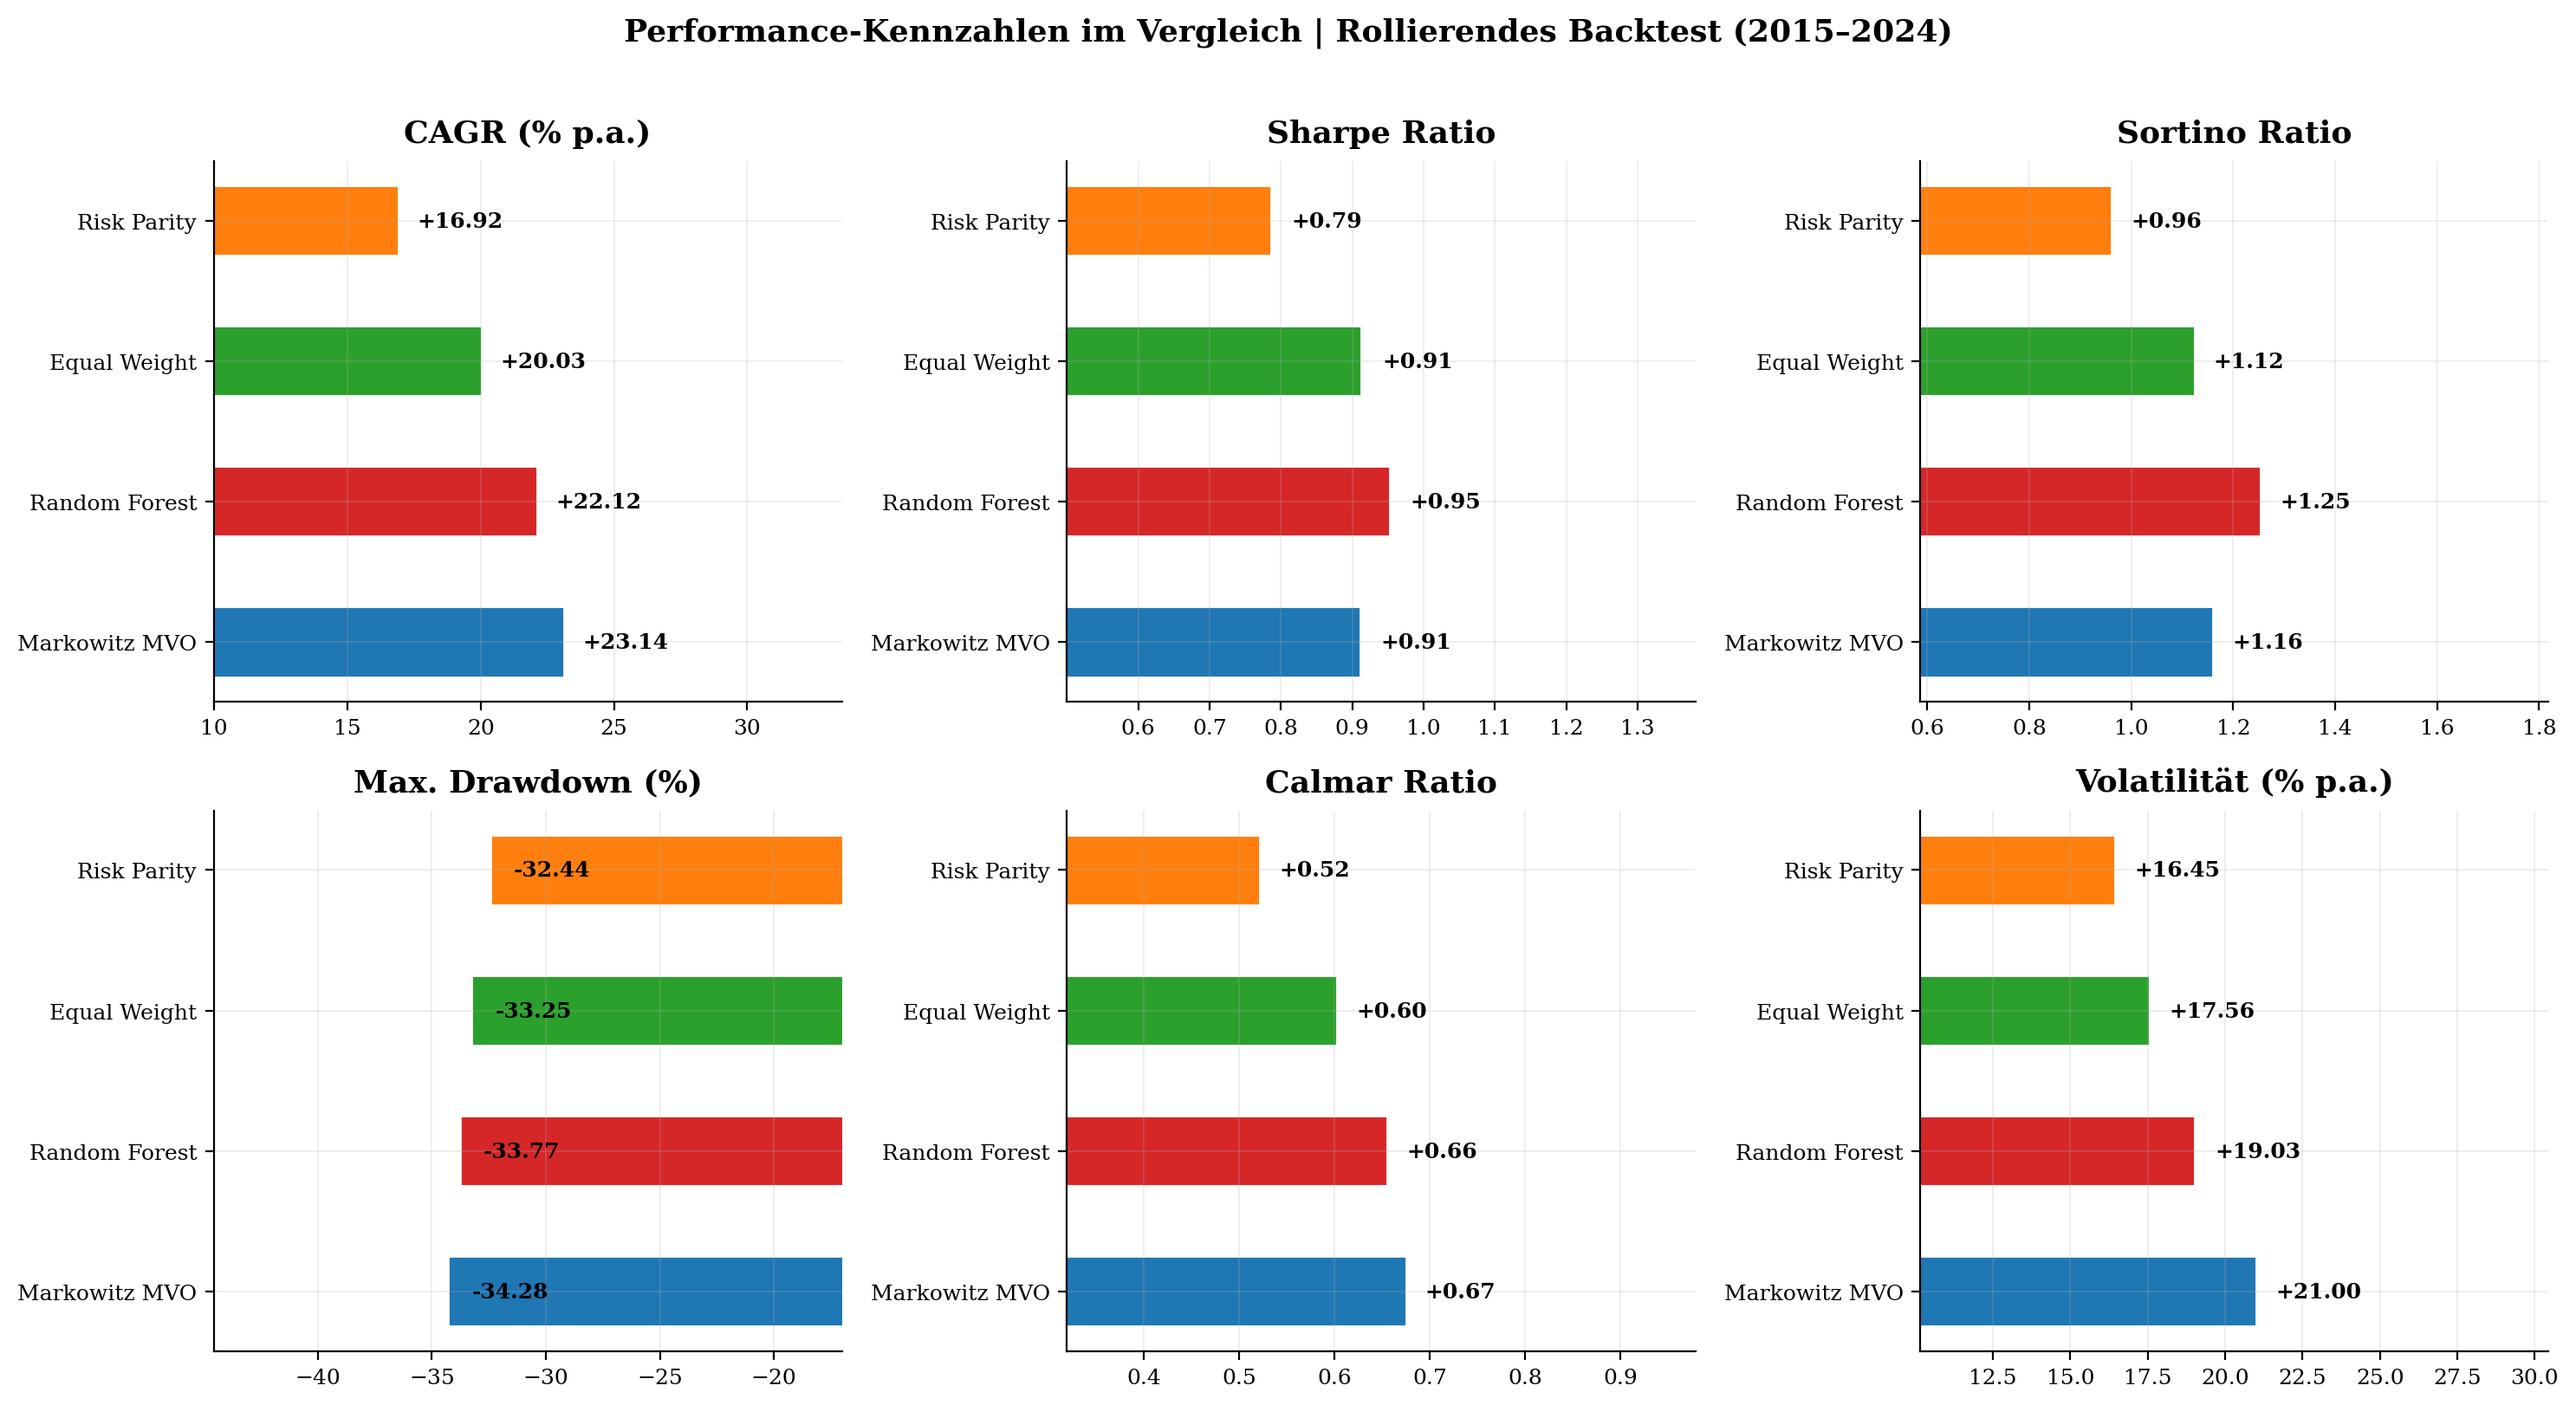
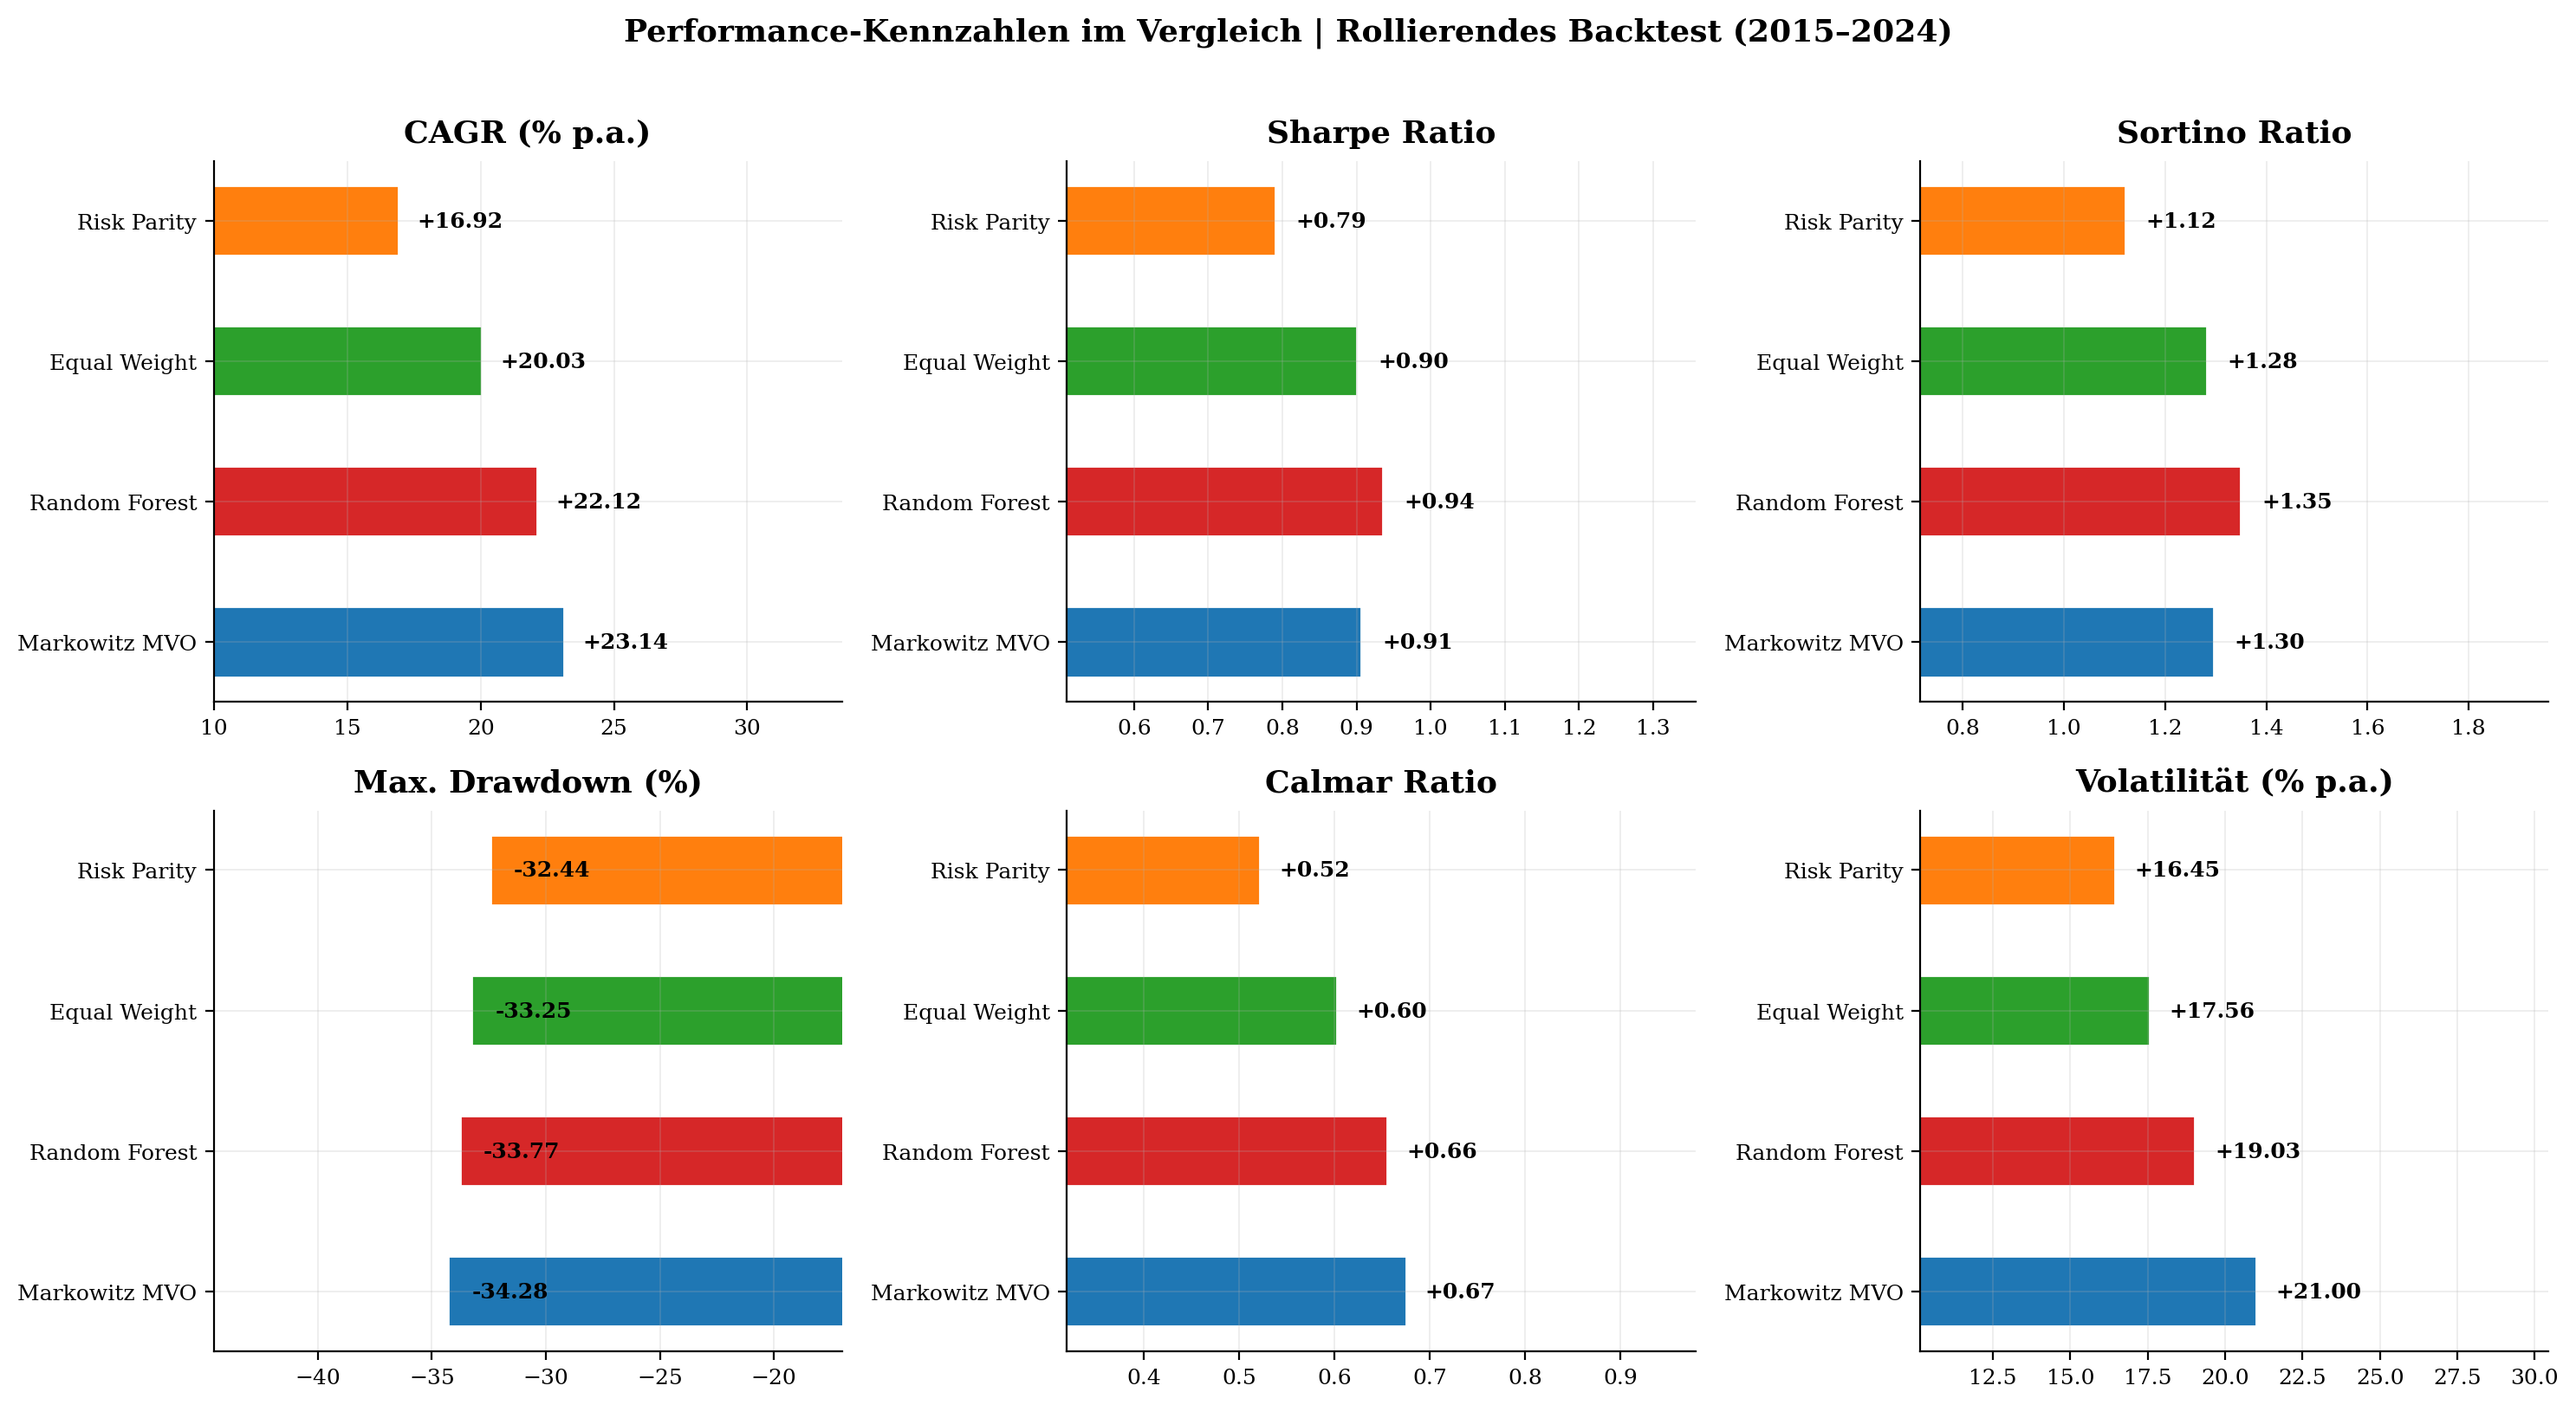
Sharpe und Sortino auf die Lehrbuchdefinition umgestellt
sharpe_ratio() rechnete bisher mit der geometrischen Jahresrendite (CAGR)
im Zähler und einem linear annualisierten Nenner. Diese Mischung entspricht
nicht Sharpe (1994) und lieferte für dieselbe Strategie einen anderen Wert
als der Signifikanztest in significance.py, der immer schon arithmetisch
rechnet. Jetzt: mittlere Überschussrendite / deren Standardabweichung, mit
√252 annualisiert. Tabelle und Test stimmen damit exakt überein.

sortino_ratio() nahm die Standardabweichung INNERHALB der Verlusttage. Das
misst die Streuung unter den Verlusten statt deren Größe. Jetzt die übliche
Downside-Abweichung √(1/T · Σ min(d,0)²) über alle Tage.

Beim Umstellen aufgefallen: Bei konstanten Renditen erzeugt r − rf/252
Gleitkommarauschen (~1e-20). Die Prüfung "sd > 0" war damit erfüllt und
lieferte einen Sharpe von −9,3e16 statt 0. Beide Nenner-Schutzabfragen
haben jetzt eine Toleranzschwelle von 1e-12.

Tests 34 → 37, darunter einer, der nachweist, dass die Downside-Abweichung
über alle Tage mittelt und nicht nur über die Verlusttage.

Ergebnisse: Sharpe RF 0,9357 · MVO 0,9063 · EW 0,9005 · RP 0,7901.
Die Signifikanzbefunde ändern sich nicht — einzig "Equal Weight > Risk
Parity" bleibt nach Holm signifikant (p = 0,0216). Kostenschwellen gegen
die 1/N-Benchmark: Markowitz ≈ 20 bp, Random Forest ≈ 31 bp.

diff --git a/portfolio/metrics.py b/portfolio/metrics.py
@@ -46,6 +46,10 @@ def timer(func):
     return wrapper
 
 
+# Numerische Toleranz für Nenner-Schutzabfragen (s. sharpe_ratio).
+_EPS = 1e-12
+
+
 def cagr(returns: pd.Series, freq: int = 252) -> float:
     """Compound Annual Growth Rate aus täglichen Renditen.
 
@@ -74,14 +78,32 @@ def annualized_vol(returns: pd.Series, freq: int = 252) -> float:
 
 def sharpe_ratio(returns: pd.Series, rf: float = RISK_FREE_RATE,
                  freq: int = 252) -> float:
-    """Sharpe Ratio = (Jahresrendite − sicherer Zins) / Jahresvolatilität.
+    """Sharpe Ratio nach Sharpe (1994): Mittelwert der Überschussrendite
+    geteilt durch deren Standardabweichung, annualisiert mit √freq.
 
-    Beispiel: 12 % Rendite bei 4 % sicherem Zins und 16 % Volatilität
-    → Sharpe = (0,12 − 0,04) / 0,16 = 0,5. Werte um 1 gelten als sehr gut.
+    Vorgehen:
+      1. Von jeder Tagesrendite den anteiligen risikofreien Zins abziehen
+         (rf/252) → "Überschussrendite" oder Differenzrendite d.
+      2. Mittelwert von d durch Standardabweichung von d teilen.
+      3. Mit √252 auf ein Jahr hochrechnen.
+
+    Beispiel: 12 % erwartete Überschussrendite bei 16 % Volatilität
+    → Sharpe = 0,12 / 0,16 = 0,75.
+
+    WARUM ARITHMETISCH UND NICHT ÜBER DIE CAGR? Frühere Fassungen dieser
+    Funktion setzten die geometrische Jahresrendite (CAGR) in den Zähler.
+    Das mischt ein geometrisches Maß mit einem linear annualisierten Nenner,
+    entspricht nicht Sharpes Definition — und lieferte für dieselbe Strategie
+    einen anderen Wert als der Signifikanztest in ``significance.py``, der
+    schon immer arithmetisch rechnet. Seit 15.08.2026 rechnen beide gleich.
     """
-    r = cagr(returns, freq)
-    v = annualized_vol(returns, freq)
-    return (r - rf) / v if v > 0 else 0.0    # Schutz: bei Vola 0 keine Division
+    d  = returns - rf / freq                 # Überschussrendite je Tag
+    sd = d.std(ddof=1)
+    # Schwelle statt "> 0": Die Subtraktion rf/freq erzeugt bei konstanten
+    # Renditen Gleitkommarauschen (Größenordnung 1e-20). Ohne Toleranz käme
+    # dabei ein sinnloser Wert von 1e+16 heraus statt der gewollten 0.
+    # 1e-12 liegt zehn Größenordnungen unter jeder echten Tagesschwankung.
+    return float(d.mean() / sd * np.sqrt(freq)) if sd > _EPS else 0.0
 
 
 def max_drawdown(returns: pd.Series) -> float:
@@ -118,10 +140,16 @@ def sortino_ratio(returns: pd.Series, rf: float = RISK_FREE_RATE,
     also wird die Volatilität nur aus den negativen Tagesrenditen berechnet
     ("Downside-Volatilität").
     """
-    r        = cagr(returns, freq)
-    down     = returns[returns < 0]              # nur die Verlusttage behalten
-    down_vol = down.std() * np.sqrt(freq)        # deren Schwankung, annualisiert
-    return (r - rf) / down_vol if down_vol > 0 else 0.0
+    d = returns - rf / freq                      # Überschussrendite je Tag
+    # Downside-Abweichung: quadratischer Mittelwert der NEGATIVEN Abweichungen,
+    # gemittelt über ALLE Tage (nicht nur über die Verlusttage). Tage über der
+    # Zielrendite gehen mit 0 ein — Schwankung nach oben soll nicht bestrafen.
+    #   DD = sqrt( 1/T · Σ min(d_t, 0)² )
+    # Frühere Fassungen nahmen stattdessen die Standardabweichung INNERHALB
+    # der Verlusttage. Das misst die Streuung unter den Verlusten statt deren
+    # Größe und entspricht nicht der üblichen Definition (Sortino/Van der Meer).
+    dd = np.sqrt((np.minimum(d, 0.0) ** 2).mean()) * np.sqrt(freq)
+    return float(d.mean() * freq / dd) if dd > _EPS else 0.0
 
 
 def portfolio_perf(weights: np.ndarray, mu: np.ndarray, cov: np.ndarray,

diff --git a/tests/test_metrics.py b/tests/test_metrics.py
@@ -62,14 +62,37 @@ def test_annualized_vol_constant_is_near_zero():
 
 
 def test_sharpe_zero_vol_guard():
-    # Vola exakt 0 -> Sharpe 0 (Division-durch-0-Schutz)
-    # Prüft gezielt den "if v > 0"-Schutz in sharpe_ratio().
-    assert sharpe_ratio(_series([0.0] * 252)) == 0.0
+    # Ueberschussrendite konstant -> Standardabweichung 0 -> Sharpe 0.
+    # Prueft gezielt den "if sd > 0"-Schutz in sharpe_ratio().
+    assert sharpe_ratio(_series([0.0] * 252), rf=0.0) == 0.0
+
+
+def test_sharpe_penalises_risk_free_shortfall():
+    # Eine Strategie, die konstant 0 % liefert, waehrend der sichere Zins 4 %
+    # betraegt, hat eine konstant NEGATIVE Ueberschussrendite. Die Streuung
+    # ist null, der Schutz greift also weiterhin.
+    assert sharpe_ratio(_series([0.0] * 252), rf=0.04) == 0.0
 
 
 def test_sortino_no_downside_guard():
-    # keine negativen Renditen -> Downside-Vola 0/NaN -> Sortino 0 (Schutz)
-    assert sortino_ratio(_series([0.0] * 252)) == 0.0
+    # Keine Abweichung unter die Zielrendite -> Downside-Abweichung 0 -> 0.
+    assert sortino_ratio(_series([0.0] * 252), rf=0.0) == 0.0
+
+
+def test_sortino_counts_shortfall_against_target():
+    # Liegt die Rendite dauerhaft UNTER dem sicheren Zins, ist das sehr wohl
+    # Downside-Risiko: Sortino muss negativ werden, nicht null.
+    assert sortino_ratio(_series([0.0] * 252), rf=0.04) < 0
+
+
+def test_sortino_uses_all_days_not_only_losers():
+    # Downside-Abweichung mittelt ueber ALLE Tage. Haengt man an eine Reihe
+    # mit wenigen Verlusten viele Gewinntage an, sinkt die Downside-Abweichung
+    # und der Sortino-Quotient steigt. Die alte Fassung (Streuung INNERHALB
+    # der Verlusttage) reagierte darauf nicht.
+    wenig = _series([-0.01] * 5 + [0.01] * 5)
+    viel  = _series([-0.01] * 5 + [0.01] * 95)
+    assert sortino_ratio(viel, rf=0.0) > sortino_ratio(wenig, rf=0.0)
 
 
 def test_portfolio_perf_matches_formula():

diff --git a/portfolio/backtest.py b/portfolio/backtest.py
@@ -179,10 +179,11 @@ def run_backtest(asset_prices: pd.DataFrame,
         # try/except als Sicherheitsnetz: Falls der Optimierer in einem Monat
         # scheitert (selten, z. B. keine Konvergenz), wird neutral auf 1/N
         # ausgewichen statt den ganzen Backtest abzubrechen.
-        # MVO_TURNOVER_LIMIT ist standardmäßig None → kein Limit (wie bisher).
-        # Ist es gesetzt, gilt für Markowitz dieselbe Handelsrestriktion wie
-        # für den Random Forest; nur dann unterscheiden sich die beiden
-        # Strategien wirklich AUSSCHLIESSLICH im Renditeschätzer.
+        # MVO_TURNOVER_LIMIT steht seit 15.08.2026 standardmäßig auf 0.30 —
+        # dieselbe Handelsrestriktion wie für den Random Forest. Nur dann
+        # unterscheiden sich die beiden Strategien wirklich AUSSCHLIESSLICH
+        # im Renditeschätzer. Auf None gesetzt entfällt das Limit (früheres
+        # Verhalten, siehe Archiv/Robustheitslaeufe/).
         try:
             w_mvo = mvo.max_sharpe(
                 mu_hist, cov_ann,
